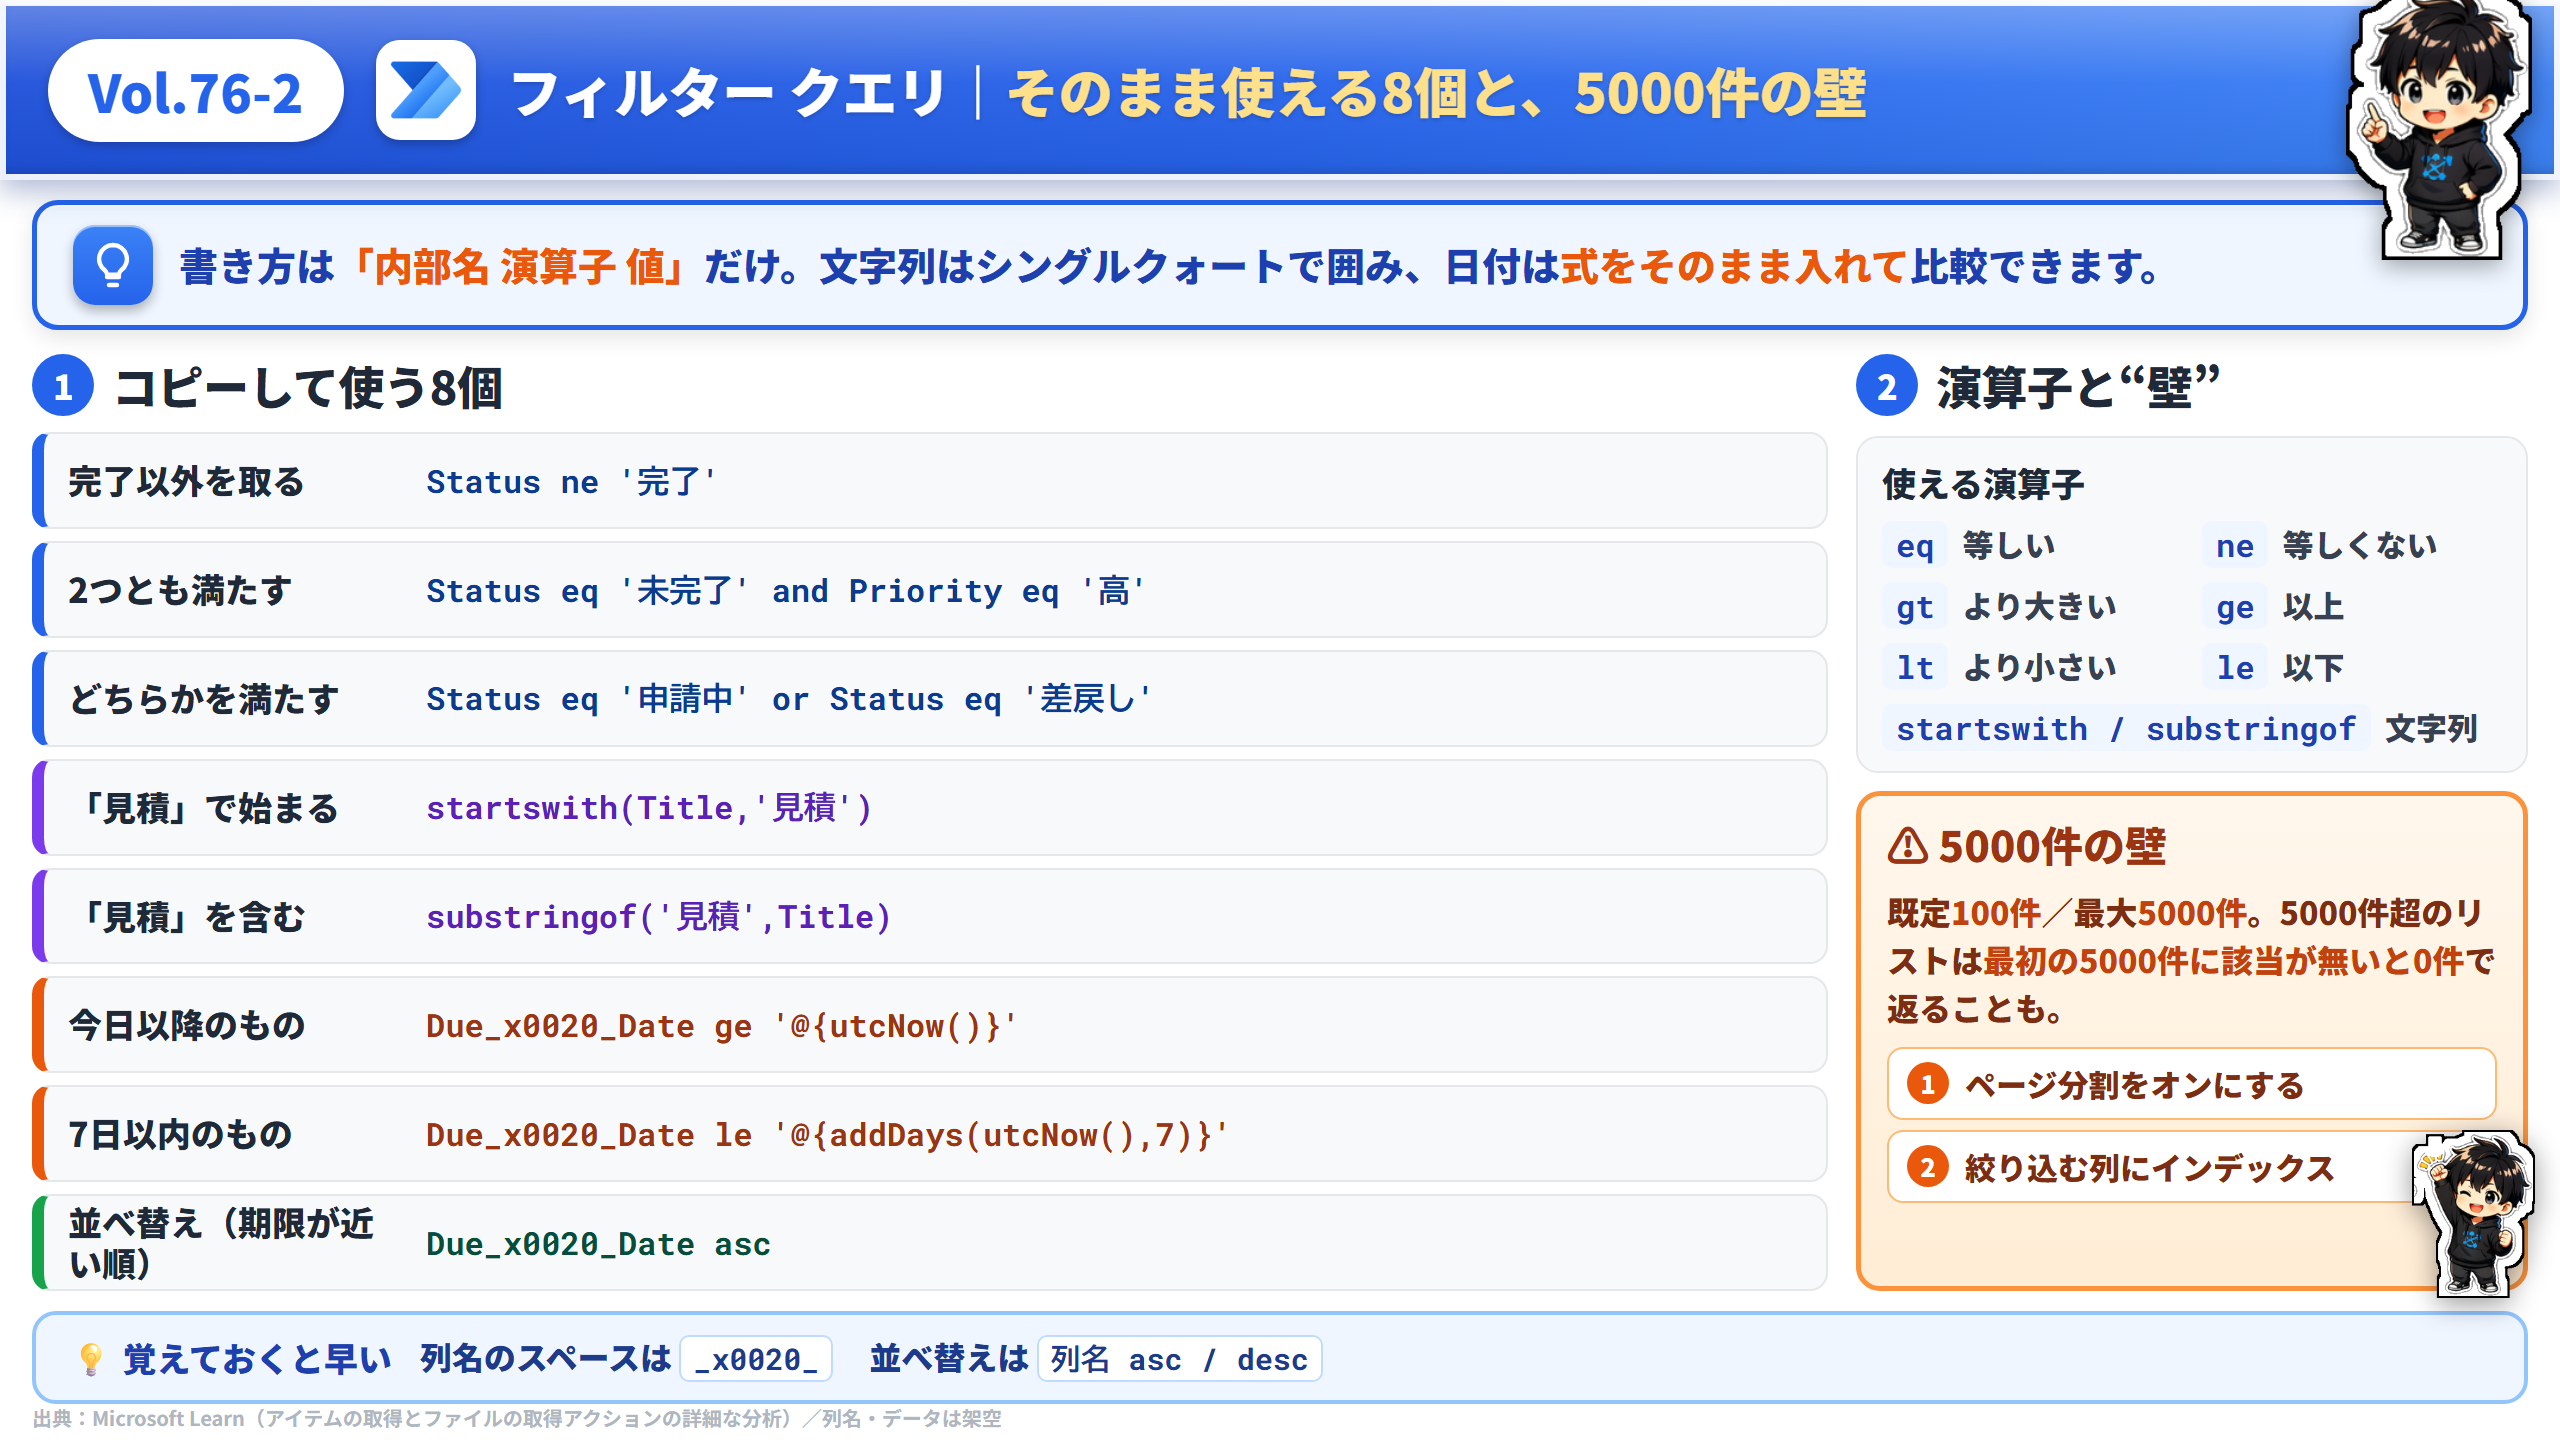
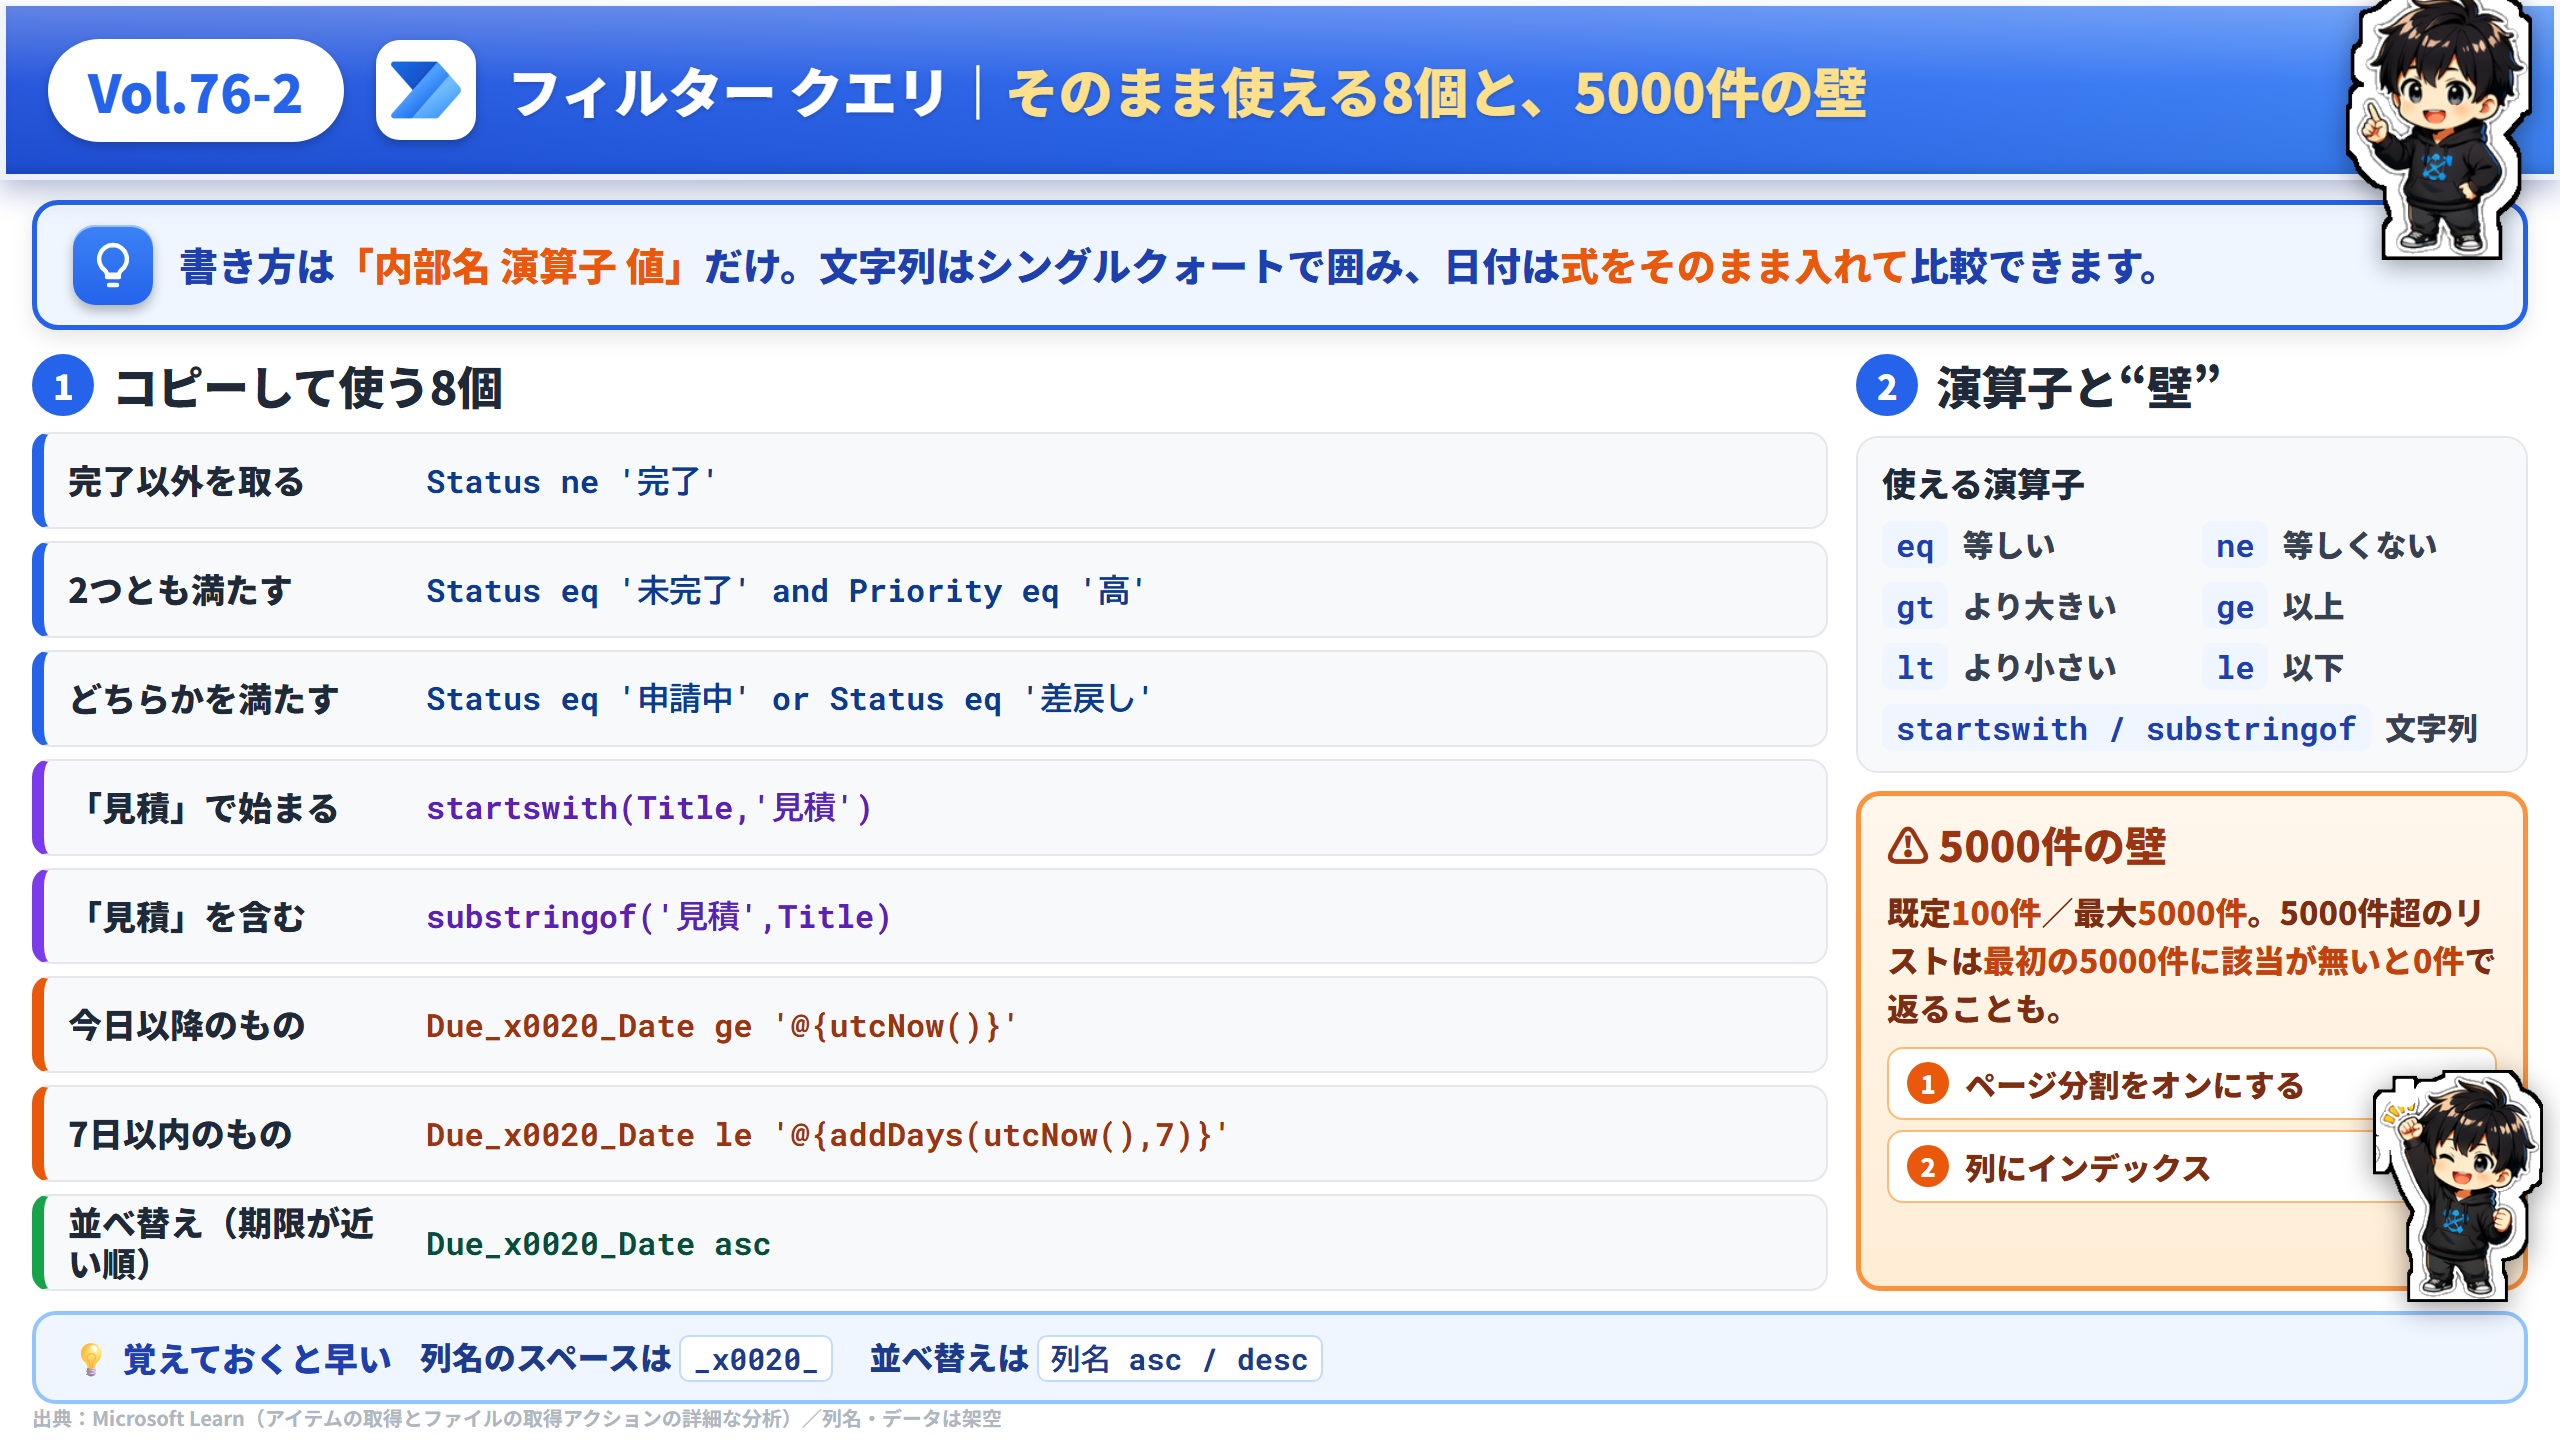
Vol.76 のマスコット/アイコンを品質基準まで拡大
- 1枚目＝右下マスコット 84→116px、モック見出しアイコン18→22px
- 2枚目＝マスコット 84→116px。手順②の文言を短縮して被り解消
これで76〜78の6枚すべてを Vol.45 基準（本文マスコット112px以上・空白はSVG図解）に揃えた

Changed region(s): [[0.75, 0.7188, 1.0, 0.9062]]

diff --git a/assets/x/html/vol-76/index.html b/assets/x/html/vol-76/index.html
@@ -37,12 +37,12 @@
   .ch .n{flex:0 0 auto;width:31px;height:31px;border-radius:50%;background:var(--blue);color:#fff;font-weight:900;font-size:18px;display:flex;align-items:center;justify-content:center;}
   .cap{font-size:16px;font-weight:800;color:var(--gray);line-height:1.45;background:#F8F9FA;border-left:4px solid var(--blue);border-radius:0 8px 8px 0;padding:7px 10px;}
   .cap b{color:var(--blue-dark);}
-  .col.rel .cap{padding-right:76px;}
+  .col.rel .cap{padding-right:100px;}
 
   .mock{flex:1;background:#fff;border:1px solid #D7DEE8;border-radius:11px;box-shadow:0 5px 13px rgba(0,0,0,.14);overflow:hidden;font-family:'Segoe UI','Noto Sans JP',sans-serif;display:flex;flex-direction:column;min-height:0;}
   .mh{flex:0 0 auto;display:flex;align-items:center;gap:8px;padding:8px 11px;background:#F3F6FB;border-bottom:1px solid #E3E9F1;}
-  .mh img{width:18px;height:18px;object-fit:contain;}
-  .mh span{font-weight:800;font-size:15px;color:#243B58;}
+  .mh img{width:22px;height:22px;object-fit:contain;}
+  .mh span{font-weight:800;font-size:16px;color:#243B58;}
   .mb{flex:1;padding:9px 11px;display:flex;flex-direction:column;gap:6px;min-height:0;}
 
   /* ①URLバー */
@@ -72,7 +72,7 @@
   .rw .dot{flex:0 0 auto;width:8px;height:8px;border-radius:50%;background:var(--green);}
   .rw .dt{margin-left:auto;font-family:'Roboto Mono',monospace;font-size:13.5px;color:var(--weak);}
 
-  .cmascot{position:absolute;right:2px;bottom:0;height:84px;z-index:30;filter:drop-shadow(0 3px 7px rgba(0,0,0,.4));}
+  .cmascot{position:absolute;right:-8px;bottom:-6px;height:116px;z-index:30;filter:drop-shadow(0 3px 7px rgba(0,0,0,.4));}
   .col.rel{position:relative;}
 
   .next{flex:0 0 auto;margin:10px 16px 18px;background:linear-gradient(180deg,#EAF2FF,#DCEAFE);border:2.5px solid var(--blue);border-radius:13px;padding:12px 18px;display:flex;align-items:center;gap:11px;font-weight:900;font-size:20px;color:var(--blue-dark);box-shadow:0 3px 9px rgba(0,0,0,.10),inset 0 1px 0 rgba(255,255,255,.7);}

diff --git a/assets/x/html/vol-76b/index.html b/assets/x/html/vol-76b/index.html
@@ -58,8 +58,8 @@
   .wall .steps{display:flex;flex-direction:column;gap:5px;}
   .wall .stp{display:flex;align-items:center;gap:8px;font-size:15.5px;font-weight:800;color:#7C2D12;background:#fff;border:1px solid #FDBA74;border-radius:8px;padding:6px 9px;}
   .wall .stp .n{flex:0 0 auto;width:21px;height:21px;border-radius:50%;background:#EA580C;color:#fff;font-size:12.5px;font-weight:900;display:flex;align-items:center;justify-content:center;}
-  .wall .stp:last-child{padding-right:64px;}
-  .wmascot{position:absolute;right:-6px;bottom:-6px;height:84px;z-index:30;filter:drop-shadow(0 3px 7px rgba(0,0,0,.4));}
+  .wall .stp:last-child{padding-right:104px;}
+  .wmascot{position:absolute;right:-10px;bottom:-8px;height:116px;z-index:30;filter:drop-shadow(0 3px 7px rgba(0,0,0,.4));}
 
   .warn{flex:0 0 auto;margin:10px 16px 18px;background:#EFF6FF;border:2px solid #93C5FD;border-radius:12px;padding:9px 16px;display:flex;align-items:center;gap:14px;}
   .warn .wt2{flex:0 0 auto;font-weight:900;font-size:17px;color:var(--blue-dark);}
@@ -125,7 +125,7 @@ document.getElementById('slide').innerHTML=`
         <div class="wt">既定<b>100件</b>／最大<b>5000件</b>。5000件超のリストは<b>最初の5000件に該当が無いと0件</b>で返ることも。</div>
         <div class="steps">
           <div class="stp"><span class="n">1</span><span><b>ページ分割</b>をオンにする</span></div>
-          <div class="stp"><span class="n">2</span><span>絞り込む列に<b>インデックス</b></span></div>
+          <div class="stp"><span class="n">2</span><span>列に<b>インデックス</b></span></div>
         </div>
         <img class="wmascot" src="${A}chara/chara_guts.png" alt="">
       </div>
